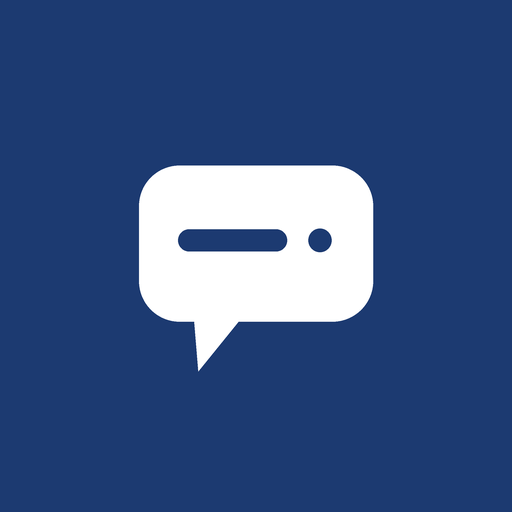
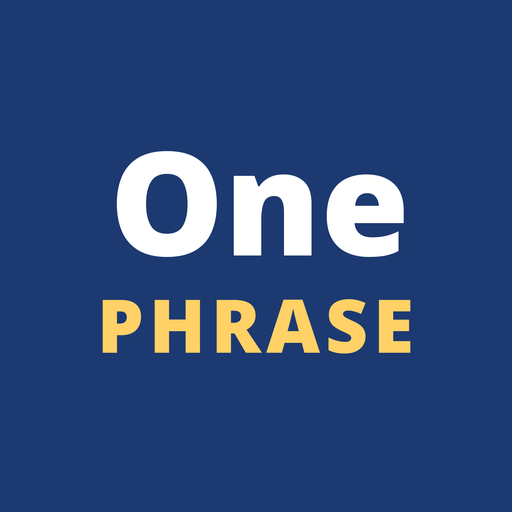
v1.31.1: 아이콘을 개명 전 워드마크 디자인으로 복원 (One/PHRASE 타이포, 색·비율 실측 기반 재생성)

Changed region(s): [[0.1875, 0.2812, 0.8125, 0.7188]]

diff --git a/index.html b/index.html
@@ -92,7 +92,6 @@ button:focus-visible,summary:focus-visible{outline:2px solid var(--blue-text);ou
 .masthead{border:0;border-radius:var(--r-xl);padding:var(--sp4) var(--sp4) 13px;background:linear-gradient(180deg,var(--mast-a) 0%,var(--mast-b) 92%);margin-bottom:2px;box-shadow:var(--shadow)}
 .brandrow{display:flex;align-items:center;gap:9px}
 .logo{display:inline-flex;align-items:center;justify-content:center;width:34px;height:34px;flex:0 0 auto;border-radius:var(--r-sm);background:var(--blue);color:#fff;font-size:19px;font-weight:900;line-height:1;box-shadow:inset 0 -3px 0 rgba(0,0,0,.22)}
-.logo svg{width:23px;height:23px;display:block}
 .wordmark{flex:1;min-width:0;font-weight:900;color:var(--blue-text);letter-spacing:.14em;font-size:15px;white-space:nowrap;overflow:hidden}
 .profilebtn{flex:0 0 auto;width:38px;height:38px;border-radius:50%;border:1px solid var(--line-soft);background:var(--soft);color:var(--avatar-ink);font-size:16px;font-weight:900;cursor:pointer;font:inherit;display:inline-flex;align-items:center;justify-content:center;padding:0;box-shadow:var(--shadow);transition:transform .12s var(--ease)}
 .profilebtn:active{transform:scale(.94)}
@@ -274,7 +273,6 @@ textarea:focus,input[type=text]:focus{border-color:var(--blue-text);box-shadow:v
 footer{margin-top:var(--sp6);border-top:1px solid var(--line-soft);padding:20px 16px 0;text-align:center}
 .footbrand{display:flex;align-items:center;justify-content:center;gap:8px}
 .footlogo{display:inline-flex;align-items:center;justify-content:center;width:24px;height:24px;border-radius:7px;background:var(--blue);color:#fff;font-size:13px;font-weight:900;line-height:1}
-.footlogo svg{width:15px;height:15px;display:block}
 .footword{font-weight:900;color:var(--blue-text);letter-spacing:.1em;font-size:13.5px}
 .footko{font-size:13px;color:var(--sub);font-weight:700}
 .footmeta{margin-top:var(--sp2);font-size:12.5px;color:var(--sub)}
@@ -298,7 +296,7 @@ summary{font-weight:800;cursor:pointer}
 <body>
 <div class="wrap">
 <header class="masthead">
-<div class="brandrow"><span class="logo" aria-hidden="true"><svg viewBox="0 0 24 24" aria-hidden="true"><rect x="2.4" y="4.2" width="19.2" height="12.8" rx="3.4" fill="#fff"/><polygon points="6.1,16.6 9.9,16.6 6.3,21" fill="#fff"/><rect x="5.6" y="9.55" width="8.8" height="1.9" rx=".95" fill="#1C3A71"/><circle cx="17.3" cy="10.5" r=".95" fill="#1C3A71"/></svg></span><span class="wordmark">ONE PHRASE</span><button class="profilebtn" id="profileBtn" aria-label="내 정보" aria-haspopup="dialog"><svg viewBox="0 0 24 24" fill="none" stroke="currentColor" stroke-width="1.9" stroke-linecap="round" stroke-linejoin="round" aria-hidden="true"><circle cx="12" cy="8" r="3.6"/><path d="M5.2 19.8c.8-3.6 3.4-5.4 6.8-5.4s6 1.8 6.8 5.4"/></svg></button><button class="menubtn" id="menuBtn" aria-haspopup="dialog" aria-expanded="false">☰ 메뉴</button></div>
+<div class="brandrow"><span class="logo" aria-hidden="true">O</span><span class="wordmark">ONE PHRASE</span><button class="profilebtn" id="profileBtn" aria-label="내 정보" aria-haspopup="dialog"><svg viewBox="0 0 24 24" fill="none" stroke="currentColor" stroke-width="1.9" stroke-linecap="round" stroke-linejoin="round" aria-hidden="true"><circle cx="12" cy="8" r="3.6"/><path d="M5.2 19.8c.8-3.6 3.4-5.4 6.8-5.4s6 1.8 6.8 5.4"/></svg></button><button class="menubtn" id="menuBtn" aria-haspopup="dialog" aria-expanded="false">☰ 메뉴</button></div>
 <h1>한 문장 프랑스어</h1>
 <div class="progress" id="progressArea">
 <div class="progress-top"><span id="progressLine">불러오는 중…</span><span class="todaychip" id="todayChip">오늘 0문장</span></div>
@@ -401,13 +399,13 @@ summary{font-weight:800;cursor:pointer}
 </div>
 
 <footer>
-<div class="footbrand"><span class="footlogo" aria-hidden="true"><svg viewBox="0 0 24 24" aria-hidden="true"><rect x="2.4" y="4.2" width="19.2" height="12.8" rx="3.4" fill="#fff"/><polygon points="6.1,16.6 9.9,16.6 6.3,21" fill="#fff"/><rect x="5.6" y="9.55" width="8.8" height="1.9" rx=".95" fill="#1C3A71"/><circle cx="17.3" cy="10.5" r=".95" fill="#1C3A71"/></svg></span><span class="footword">ONE PHRASE</span><span class="footko">한 문장 프랑스어</span></div>
-<div class="footmeta">v1.31.0 · © 2026 sidebatch</div>
+<div class="footbrand"><span class="footlogo" aria-hidden="true">O</span><span class="footword">ONE PHRASE</span><span class="footko">한 문장 프랑스어</span></div>
+<div class="footmeta">v1.31.1 · © 2026 sidebatch</div>
 </footer>
 </div>
 <script>
 "use strict";
-const APP_VERSION = "1.31.0";
+const APP_VERSION = "1.31.1";
 const STORAGE_KEY = "une-phrase-progress-v1";
 const SUPABASE_URL = "https://cmhitsgoicxvmlwtrdrb.supabase.co";
 const SUPABASE_KEY = "sb_publishable_iZugJ1l1p3DSk_BB2Y3N3Q_qZwSo637";

diff --git a/sw.js b/sw.js
@@ -1,5 +1,5 @@
 /* One Phrase - 오프라인용 서비스 워커 (네트워크 우선) */
-const CACHE = 'une-phrase-v1.31.0';
+const CACHE = 'une-phrase-v1.31.1';
 const ASSETS = [
   './',
   './index.html',

diff --git a/README.md b/README.md
@@ -8,7 +8,7 @@
 고르는 고민도, 직접 만드는 부담도 없이 — 읽고, 따라 쓰고, 가리고 쓰면 한 문장이 끝난다.
 콘텐츠는 TEF Canada 준비와 캐나다 일상생활에 바로 쓸 수 있는 문장으로 구성했다.
 
-버전: v1.31.0
+버전: v1.31.1
 
 ## 어떻게 쓰나요
 
@@ -19,9 +19,10 @@
 기본은 **한 문장만**이다. 끝내면 완료 화면이 나오고, 원하면 "한 문장 더"를 누른다.
 멈춘 자리에서 자동으로 이어진다. 화면 이동은 헤더의 "☰ 메뉴"로만 하고, 주제별·단어 화면이 보조로 있다.
 
-## 콘텐츠 현황 (v1.31.0)
+## 콘텐츠 현황 (v1.31.1)
 
 - 문장 286개 (주제 10종, 레벨 A2 88개 · B1 96개 · B2 102개), 핵심 단어 572개
+- v1.31.1: 아이콘을 개명 전 워드마크 디자인으로 복원 (콘텐츠·학습 동작·저장 키 변경 없음) — 말풍선 픽토그램 대신 진한 파랑(#1C3A71) 배경에 1행 "One" 큰 흰 볼드 + 2행 "PHRASE" 금색(#FFD166)·자간 넓게의 타이포 디자인으로 재생성 (개명 전 "Une" 아이콘의 색·비율을 픽셀 실측해 "One"으로 교체, PIL 4배 슈퍼샘플링). 아이콘 4종·소스 SVG(icons/icon.svg)·og-image(타일은 "O", 워드마크는 "One PHRASE")와 헤더·푸터 로고 타일(글자 "O")까지 같은 디자인으로 통일
 - v1.31.0: 앱 개명 Une Phrase → **One Phrase** (콘텐츠·학습 동작·저장 키 변경 없음) — 프랑스어·영어·스페인어로 학습 언어를 넓히기 위한 준비로 이름을 언어 중립적으로 바꾸고, 리포도 sidebatch/one-phrase로 개명 (옛 주소는 새 주소로 자동 이동). 아이콘을 새 마크로 교체: 브랜드 파랑(#1C3A71) 둥근 사각형에 흰 말풍선, 그 안에 파란 한 줄 선 + 마침표(한 문장 상징). 아이콘 소스 SVG(icons/icon.svg)를 남기고 PNG 4종(icon-192·icon-512·apple-touch-icon·maskable-512)과 og-image를 같은 마크로 재생성, 헤더·푸터 로고 타일의 "U" 글자도 인라인 SVG 마크로 교체. 내부 식별자(저장 키 une-phrase-progress-v1, IndexedDB 보관함, GoatCounter 코드)는 데이터 연속성을 위해 유지
 - v1.30.0: 듣기·표시 다듬기 (콘텐츠 변경 없음) — ① 듣기 지연 개선: 음성 목록을 시작 시 미리 읽고 voiceschanged로 캐시해 두며, fr 음성 중 로컬(localService) 음성을 우선 선택. 누를 때마다 걸던 고정 120ms 대기를 없애고, 실제로 재생/대기 중일 때만 40ms만 기다린 뒤 speak 직전 resume()을 호출. 첫 pointerdown에 무음 발화로 엔진을 예열 ② 재생 중 표시: 듣기·느리게 듣기(단어 버튼 포함)를 누르면 발화가 끝날 때까지 버튼이 파랗게 채워지고, 종료·오류·길이 추정 안전 타이머 중 먼저 오는 것으로 해제. 단계·화면을 바꾸면 해제 ③ 내 정보의 구글 이메일은 기본 마스킹(go***@gmail.com)으로 표시하고 탭하면 전체 표시/다시 가리기 ④ 공부하기 레벨 표시줄에 현재 레벨 메달을 함께 표시 ⑤ 레벨 곡선 강화: 임계값을 0·30·90·190·350·590·940·1420·2080·2900으로 바꿔 레벨 간 필요 XP 간격이 단조 증가하게 함 (전 문장 완료 2860 XP는 Lv.9, 복습을 조금 더하면 Lv.10) ⑥ 아이콘을 직접 그린 인라인 SVG로 교체: 메뉴 타일 5종(책·레이어·글자 블록·사람 둘·점 셋), 듣기/느리게 듣기 스피커(파형 수와 0.7 표기로 구분), 게스트 아바타·Ensemble 히어로의 사람 실루엣. 레벨 메달 이모지와 U 로고는 유지
 - v1.29.0: 완성도 개편 (콘텐츠·학습 동작 변경 없음) — ① 테마 가시성 전수 검수: 딤 오버레이·시트 그림자·입력 포커스 링·diff 밑줄·완료 서클 그림자·금색 그라데이션 끝 색을 CSS 변수(--dim 등)로 빼 세 테마 모두에서 깨지지 않게 하고, 페이퍼 전용 메뉴 타일 파스텔을 추가 (고정 유지: 브랜드 로고 색, 진한 배경 위 흰 글자, 테마 견본 색) ② 레벨 메달 추가: Lv.1 🌱부터 Lv.10 👑까지 메달을 내 정보 창과 Ensemble 배지 옆에 표시 ③ "내 정보" 신설: 헤더 아바타 버튼(닉네임 첫 글자/게스트 👤)을 누르면 바텀시트에 메달·레벨·XP 진행·완료 수·복습 맞힘·이메일·로그아웃(비로그인은 로컬 통계 + 구글로 시작하기) 표시 ④ "설명" 탭을 "더보기"로 개명하고 문구를 섹션당 1~2줄로 축소·현행화 (TEF Canada 연결 섹션 삭제 → 일상 프랑스어 앱 한 줄, 기록 보관은 기기 저장 + 로그인 시 서버 보관으로 교체, Ensemble 안내 추가) ⑤ 버전 표기는 푸터에만 남기고 헤더 칩·메뉴 헤더 표기 제거 ⑥ 방문 카운트(GoatCounter 누적)를 헤더에서 Ensemble 화면 상단으로 옮기고 "👥 지금까지 N명이 다녀갔어요" 라벨과 함께 표시
